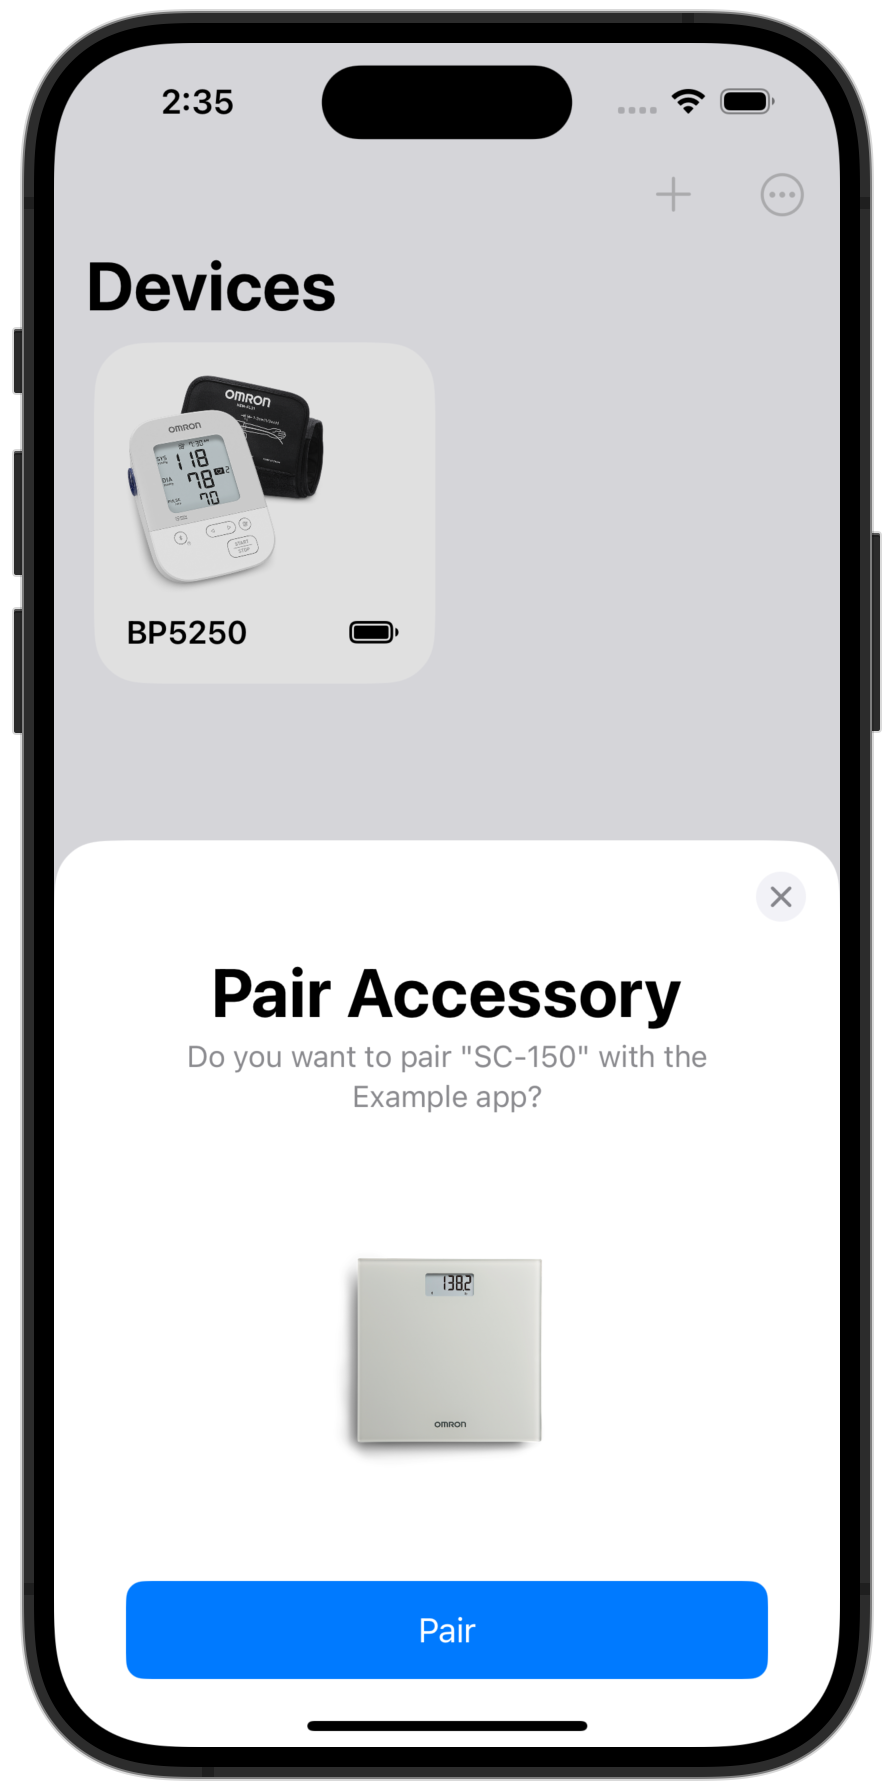
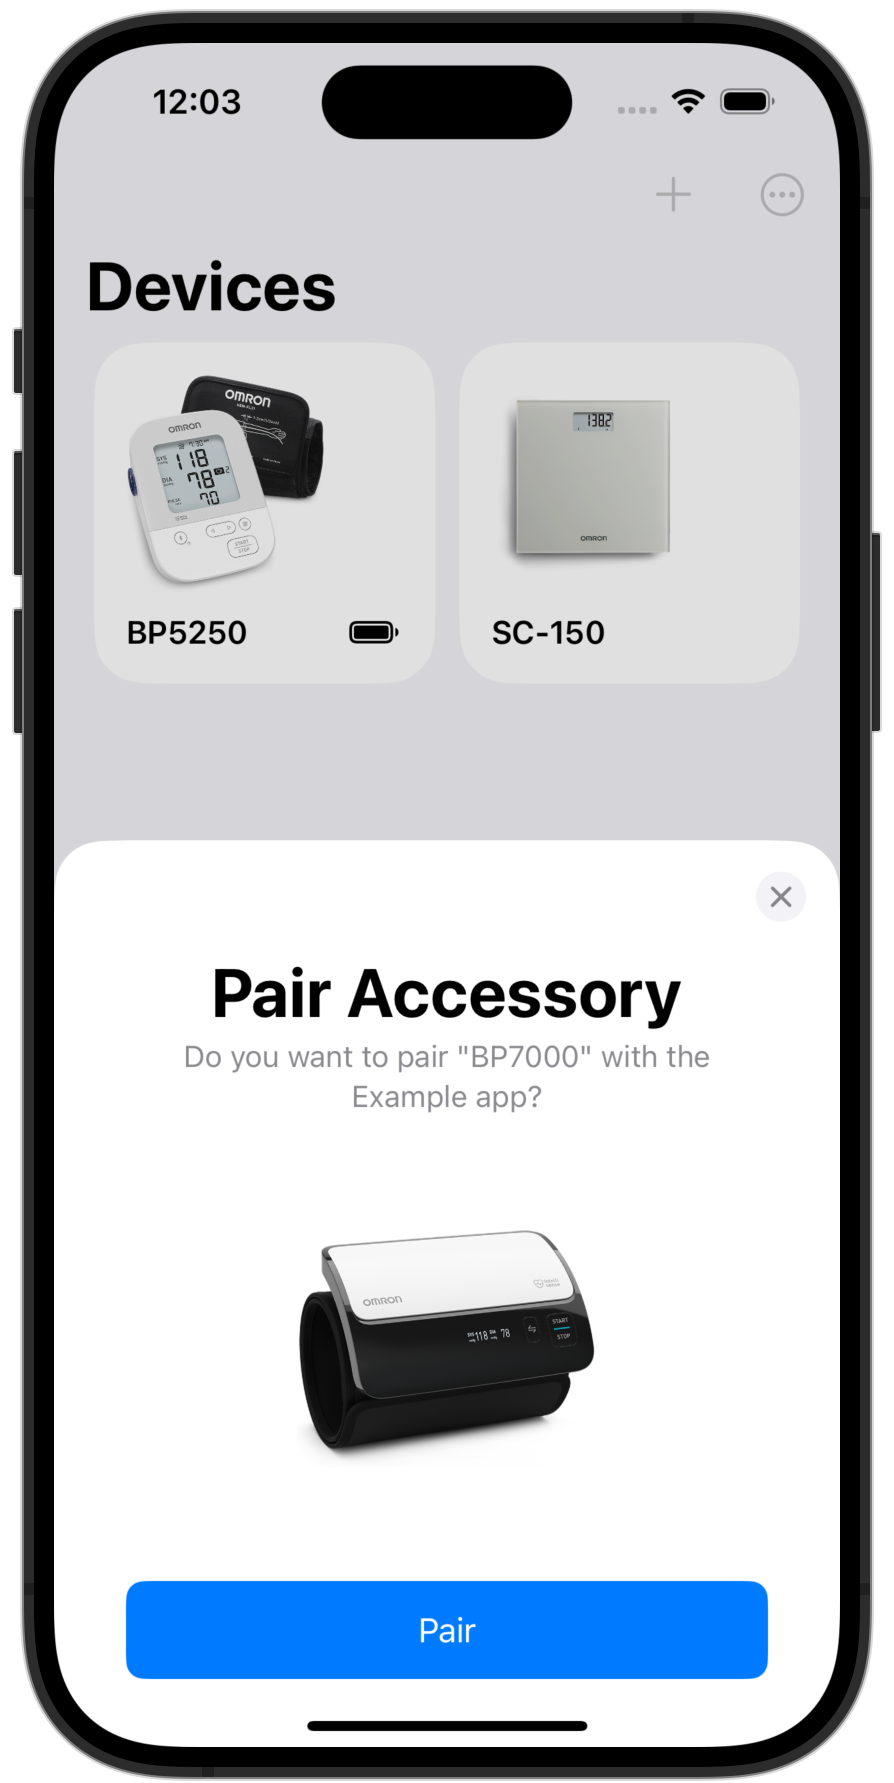
Update screenshots to include BP7000 (#11)
# Update screenshots to include BP7000

## :recycle: Current situation & Problem
This PR updates the screenshots for SpeziDevicesUI to include the BP7000
device.

## :gear: Release Notes 
* Demonstrate the BP7000 model in screenshots.

## :books: Documentation
--

## :white_check_mark: Testing
Modified the TestApp for screenshot creation.

## :pencil: Code of Conduct & Contributing Guidelines 

By submitting creating this pull request, you agree to follow our [Code
of
Conduct](https://github.com/StanfordSpezi/.github/blob/main/CODE_OF_CONDUCT.md)
and [Contributing
Guidelines](https://github.com/StanfordSpezi/.github/blob/main/CONTRIBUTING.md):
- [x] I agree to follow the [Code of
Conduct](https://github.com/StanfordSpezi/.github/blob/main/CODE_OF_CONDUCT.md)
and [Contributing
Guidelines](https://github.com/StanfordSpezi/.github/blob/main/CONTRIBUTING.md).

diff --git a/Tests/UITests/TestApp/DevicesTestView.swift b/Tests/UITests/TestApp/DevicesTestView.swift
@@ -36,47 +36,71 @@ struct DevicesTestView: View {
     @State private var didRegister = false
     @State private var device = MockDevice.createMockDevice()
     @State private var weightScale = OmronWeightScale.createMockDevice(manufacturerData: .omronManufacturerData(mode: .transferMode))
-    @State private var bloodPressureCuff = OmronBloodPressureCuff.createMockDevice(manufacturerData: .omronManufacturerData(mode: .transferMode))
+    @State private var bloodPressureCuffBP5250 = OmronBloodPressureCuff.createMockDevice(
+        manufacturerData: .omronManufacturerData(mode: .transferMode)
+    )
+    @State private var bloodPressureCuffBP7000 = OmronBloodPressureCuff.createMockDevice(
+        name: "BP7000",
+        manufacturerData: .omronManufacturerData(mode: .transferMode)
+    )
 
     @State private var viewState: ViewState = .idle
+
+    @ToolbarContentBuilder @MainActor private var toolbarContent: some ToolbarContent {
+        ToolbarItemGroup(placement: .secondaryAction) {
+            Button("Discover Device", systemImage: "plus.rectangle.fill.on.rectangle.fill") {
+                device.isInPairingMode = true
+                device.$advertisementData.inject(AdvertisementData()) // trigger onChange advertisement
+            }
+            AsyncButton(state: $viewState) {
+                try await device.connect()
+                try await weightScale.connect()
+                try await bloodPressureCuffBP5250.connect()
+                try await bloodPressureCuffBP7000.connect()
+            } label: {
+                Label("Connect", systemImage: "cable.connector")
+            }
+            AsyncButton {
+                await device.disconnect()
+                await weightScale.disconnect()
+                await bloodPressureCuffBP5250.disconnect()
+                await bloodPressureCuffBP7000.disconnect()
+            } label: {
+                Label("Disconnect", systemImage: "cable.connector.slash")
+            }
+
+            omronDevicesMenu
+        }
+    }
+
+    @MainActor private var omronDevicesMenu: some View {
+        Menu("Omron Devices", systemImage: "heart.text.square") {
+            Button("Discover Weight Scale", systemImage: "scalemass.fill") {
+                weightScale.$advertisementData.inject(AdvertisementData(
+                    manufacturerData: OmronManufacturerData.omronManufacturerData(mode: .pairingMode).encode()
+                ))
+            }
+            Menu("Discover Blood Pressure Cuff", systemImage: "heart.fill") {
+                Button("BP 5250") {
+                    bloodPressureCuffBP5250.$advertisementData.inject(AdvertisementData(
+                        manufacturerData: OmronManufacturerData.omronManufacturerData(mode: .pairingMode).encode()
+                    ))
+                }
+
+                Button("BP 7000") {
+                    bloodPressureCuffBP7000.$advertisementData.inject(AdvertisementData(
+                        manufacturerData: OmronManufacturerData.omronManufacturerData(mode: .pairingMode).encode()
+                    ))
+                }
+            }
+        }
+    }
 
     var body: some View {
         NavigationStack {
             DevicesView(appName: "Example", pairingHint: "Enable pairing mode on the device.")
                 .toolbar {
-                    ToolbarItemGroup(placement: .secondaryAction) {
-                        Button("Discover Device", systemImage: "plus.rectangle.fill.on.rectangle.fill") {
-                            device.isInPairingMode = true
-                            device.$advertisementData.inject(AdvertisementData()) // trigger onChange advertisement
-                        }
-                        AsyncButton(state: $viewState) {
-                            try await device.connect()
-                            try await weightScale.connect()
-                            try await bloodPressureCuff.connect()
-                        } label: {
-                            Label("Connect", systemImage: "cable.connector")
-                        }
-                        AsyncButton {
-                            await device.disconnect()
-                            await weightScale.disconnect()
-                            await bloodPressureCuff.disconnect()
-                        } label: {
-                            Label("Disconnect", systemImage: "cable.connector.slash")
-                        }
-
-                        Menu("Omron Devices", systemImage: "heart.text.square") {
-                            Button("Discover Weight Scale", systemImage: "scalemass.fill") {
-                                weightScale.$advertisementData.inject(AdvertisementData(
-                                    manufacturerData: OmronManufacturerData.omronManufacturerData(mode: .pairingMode).encode()
-                                ))
-                            }
-                            Button("Discovery Blood Pressure Cuff", systemImage: "heart.fill") {
-                                bloodPressureCuff.$advertisementData.inject(AdvertisementData(
-                                    manufacturerData: OmronManufacturerData.omronManufacturerData(mode: .pairingMode).encode()
-                                ))
-                            }
-                        }
-                    }
+                    toolbarContent
                 }
         }
             .viewStateAlert(state: $viewState)
@@ -87,16 +111,23 @@ struct DevicesTestView: View {
 
                 moduleLoading.loadMockDevice(device)
                 moduleLoading.loadMockDevice(weightScale)
-                moduleLoading.loadMockDevice(bloodPressureCuff)
+                moduleLoading.loadMockDevice(bloodPressureCuffBP5250)
+                moduleLoading.loadMockDevice(bloodPressureCuffBP7000)
 
                 // simulator this being called in the configure method of the device
                 pairedDevices.configure(device: device, accessing: device.$state, device.$advertisementData, device.$nearby)
                 pairedDevices.configure(device: weightScale, accessing: weightScale.$state, weightScale.$advertisementData, weightScale.$nearby)
                 pairedDevices.configure(
-                    device: bloodPressureCuff,
-                    accessing: bloodPressureCuff.$state,
-                    bloodPressureCuff.$advertisementData,
-                    bloodPressureCuff.$nearby
+                    device: bloodPressureCuffBP5250,
+                    accessing: bloodPressureCuffBP5250.$state,
+                    bloodPressureCuffBP5250.$advertisementData,
+                    bloodPressureCuffBP5250.$nearby
+                )
+                pairedDevices.configure(
+                    device: bloodPressureCuffBP7000,
+                    accessing: bloodPressureCuffBP7000.$state,
+                    bloodPressureCuffBP7000.$advertisementData,
+                    bloodPressureCuffBP7000.$nearby
                 )
                 didRegister = true
             }

diff --git a/Sources/SpeziDevices/PairedDevices.swift b/Sources/SpeziDevices/PairedDevices.swift
@@ -90,7 +90,7 @@ import SwiftUI
 /// - ``isConnected(device:)``
 /// - ``updateName(for:name:)``
 @Observable
-public final class PairedDevices: @unchecked Sendable {
+public final class PairedDevices {
     /// Determines if the device discovery sheet should be presented.
     @MainActor public var shouldPresentDevicePairing = false
 
@@ -120,7 +120,7 @@ public final class PairedDevices: @unchecked Sendable {
     @Dependency(Bluetooth.self) @ObservationIgnored private var bluetooth: Bluetooth?
     @Dependency(ConfigureTipKit.self) @ObservationIgnored private var tipKit
 
-    private var modelContainer: ModelContainer?
+    @MainActor private var modelContainer: ModelContainer?
 
     /// Determine if Bluetooth is scanning to discovery nearby devices.
     ///
@@ -142,6 +142,7 @@ public final class PairedDevices: @unchecked Sendable {
 
     /// Configures the Module.
     @_documentation(visibility: internal)
+    @MainActor
     public func configure() {
         if bluetooth == nil {
             self.logger.warning("PairedDevices Module initialized without Bluetooth dependency!")
@@ -363,7 +364,7 @@ public final class PairedDevices: @unchecked Sendable {
 }
 
 
-extension PairedDevices: Module, EnvironmentAccessible, DefaultInitializable {}
+extension PairedDevices: Module, EnvironmentAccessible, DefaultInitializable, @unchecked Sendable {}
 
 // MARK: - Device Pairing
 

diff --git a/Sources/SpeziOmron/Devices/OmronBloodPressureCuff.swift b/Sources/SpeziOmron/Devices/OmronBloodPressureCuff.swift
@@ -135,6 +135,7 @@ extension OmronBloodPressureCuff {
         systolic: MedFloat16 = 103,
         diastolic: MedFloat16 = 64,
         pulseRate: MedFloat16 = 62,
+        name: String = "BP5250",
         state: PeripheralState = .disconnected,
         nearby: Bool = true,
         manufacturerData: OmronManufacturerData = OmronManufacturerData(pairingMode: .pairingMode, users: [
@@ -145,7 +146,7 @@ extension OmronBloodPressureCuff {
         let device = OmronBloodPressureCuff()
 
         device.$id.inject(UUID())
-        device.$name.inject("BP5250")
+        device.$name.inject(name)
         device.$state.inject(state)
         device.$nearby.inject(nearby)
 
